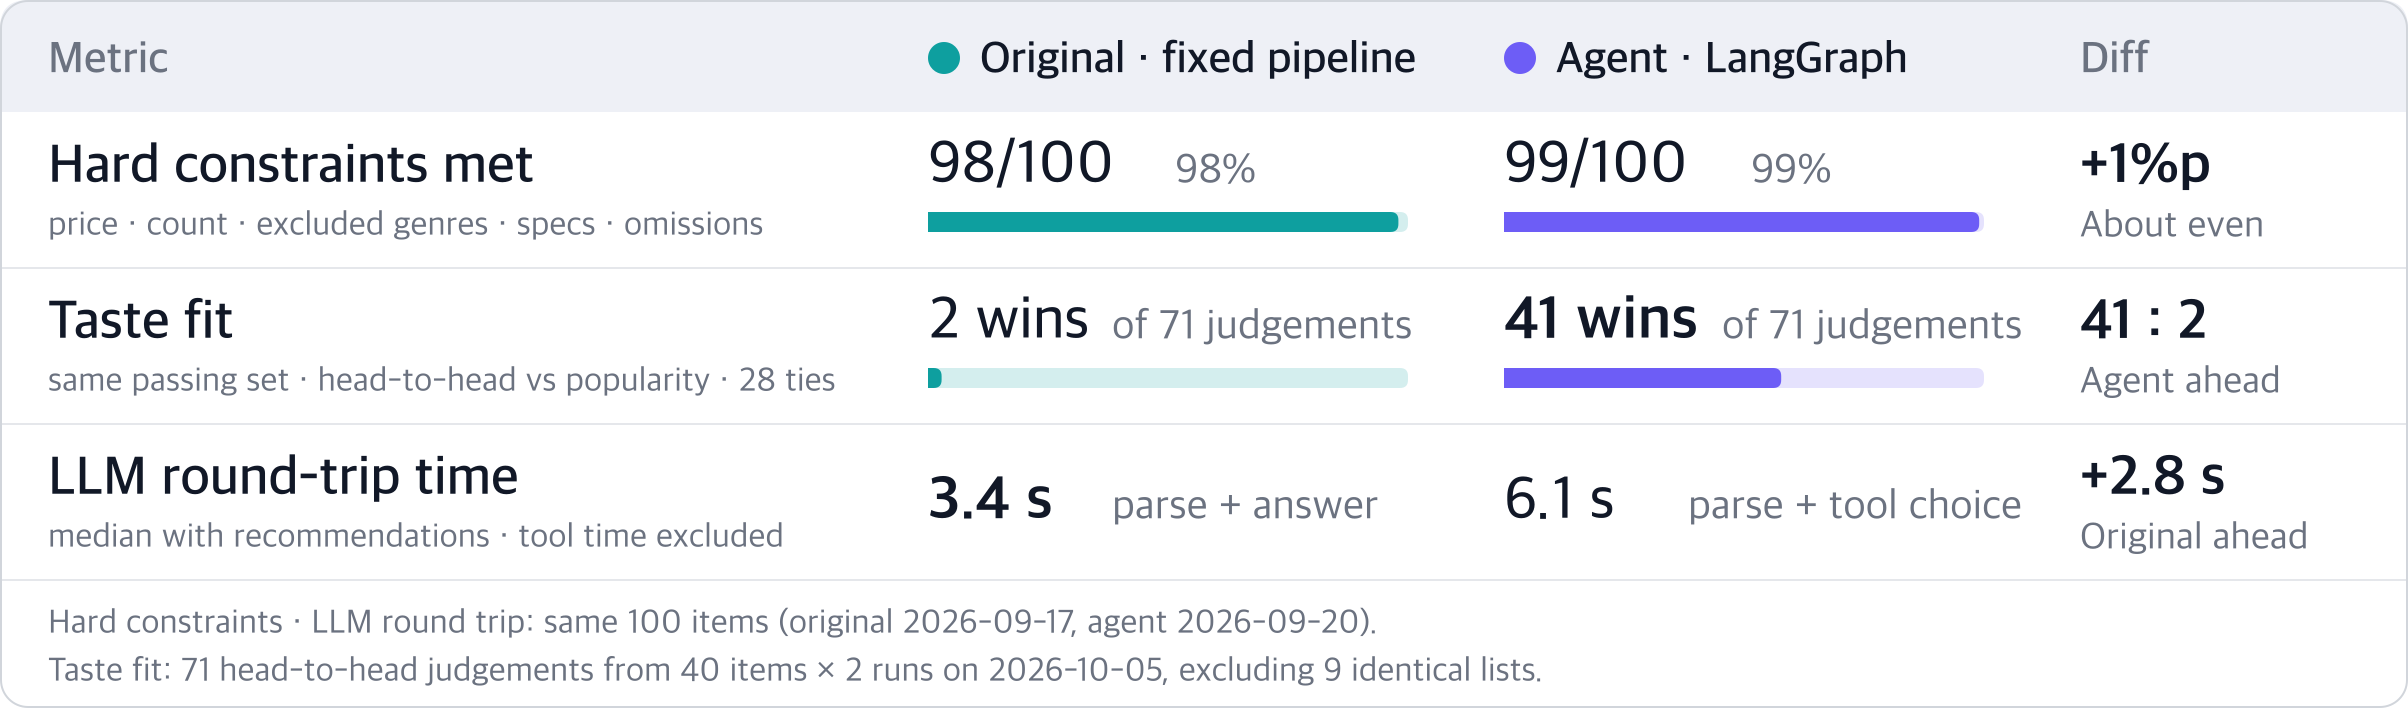
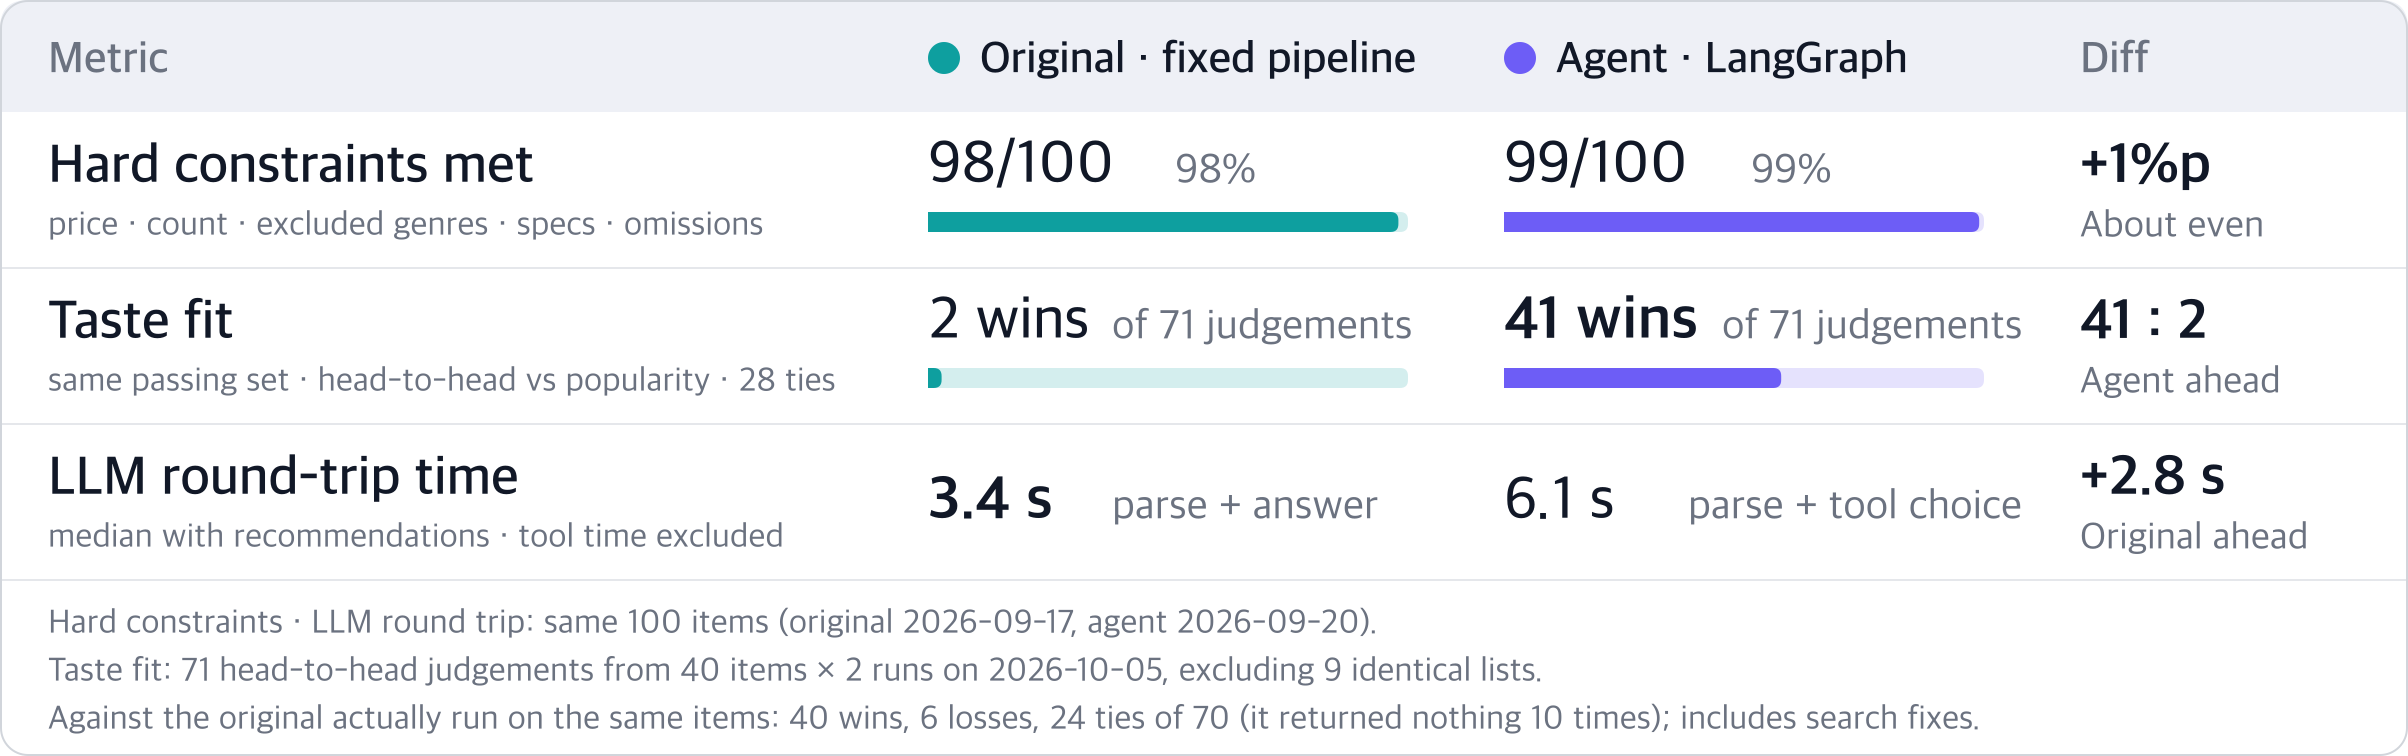
[DOCS] 비교 차트 각주에 실제 원본과의 비교를 한 줄 더한다
취향 적합도 행의 "원본 2승"은 원본 저장소를 실제로 돌린 결과가 아니라, 같은 후보에 원본의 선택
규칙을 적용한 대조 목록이다. 원본을 실제로 돌린 비교(40승 6패, 비김 24, 판정 70번, 원본 빈 추천 10)를
각주 한 줄로 적어 그 구분을 그림에서 바로 보이게 한다. 검색 수정의 효과가 섞인 수치라 행으로는
넣지 않는다.

- 한국어판은 각주가 두 줄이 되어 카드 높이 330 → 354, 영문판은 세 줄이 되어 354 → 378이다.
  rsvg-convert로 폭을 재 한 줄에 들어가는 것을 확인했다(842px, 965px).
- README 한·영과 REPORT의 "그림에 넣지 않았다"를 "각주로만 적었다"로 맞춘다.

diff --git a/README.en.md b/README.en.md
@@ -117,7 +117,7 @@ agent). Edit the [SVG](docs/eval_comparison.en.svg), not the PNG.
   agent, 2 for popularity, 28 ties (2026-10-05, [evals/relevance/REPORT.md](evals/relevance/REPORT.md)).
   We also ran the original repository on the same 40 items and compared its actual lists: out of 70
   judgements, 40 wins for the agent, 6 for the original, 24 ties, and the original returned nothing 10
-  times. That number also carries the search fixes, so it is not in the chart.
+  times. That number also carries the search fixes, so the chart shows it only as a footnote.
 - **LLM round-trip time is what the structure costs.** The original spends 3.4 s on question parsing plus
   the final answer; the agent spends 6.1 s on question parsing plus the tool-picking reasoning (median
   over the items that produced recommendations,

diff --git a/README.md b/README.md
@@ -92,7 +92,7 @@ REPORT에 그대로 남겨 두었습니다.
   41승, 인기순 2승, 비김 28입니다(2026-10-05, [evals/relevance/REPORT.md](evals/relevance/REPORT.md)).
   원본 저장소를 같은 40문항으로 실제로 돌린 목록과도 비교했습니다. 판정 70번 중 에이전트 40승, 원본 6승,
   비김 24이고, 원본은 10번 추천을 내지 못했습니다. 이 수치에는 검색 수정의 효과가 섞여 있어 그림에는
-  넣지 않았습니다.
+  행이 아니라 각주로만 적었습니다.
 - **LLM 왕복 시간이 구조의 비용입니다.** 원본은 질문 분해와 최종 답변에 3.4초, 에이전트는 질문 분해와
   Tool을 고르는 추론에 6.1초를 씁니다(추천을 낸 문항의 중앙값,
   [latency_breakdown.py](evals/agent_e2e/latency_breakdown.py)).

diff --git a/evals/relevance/REPORT.md b/evals/relevance/REPORT.md
@@ -209,4 +209,4 @@ R033(`SF 세계관의 스토리 게임`)과 R010(`유머 코드가 있는 웃긴
 - 구조에서 나온 차이: **같은 후보에서 41승 2패, 비김 28(판정 71번).** 루트 README 그림의 취향 적합도 행을
   이 수치로 바꿨다.
 - 두 서비스의 차이: **원본을 실제로 돌린 목록과 40승 6패, 비김 24(판정 70번), 원본 빈 추천 10.** 검색
-  수정의 효과가 섞인 수치라 그림에 넣지 않았다.
+  수정의 효과가 섞인 수치라 그림에는 행이 아니라 각주 한 줄로만 적었다.
